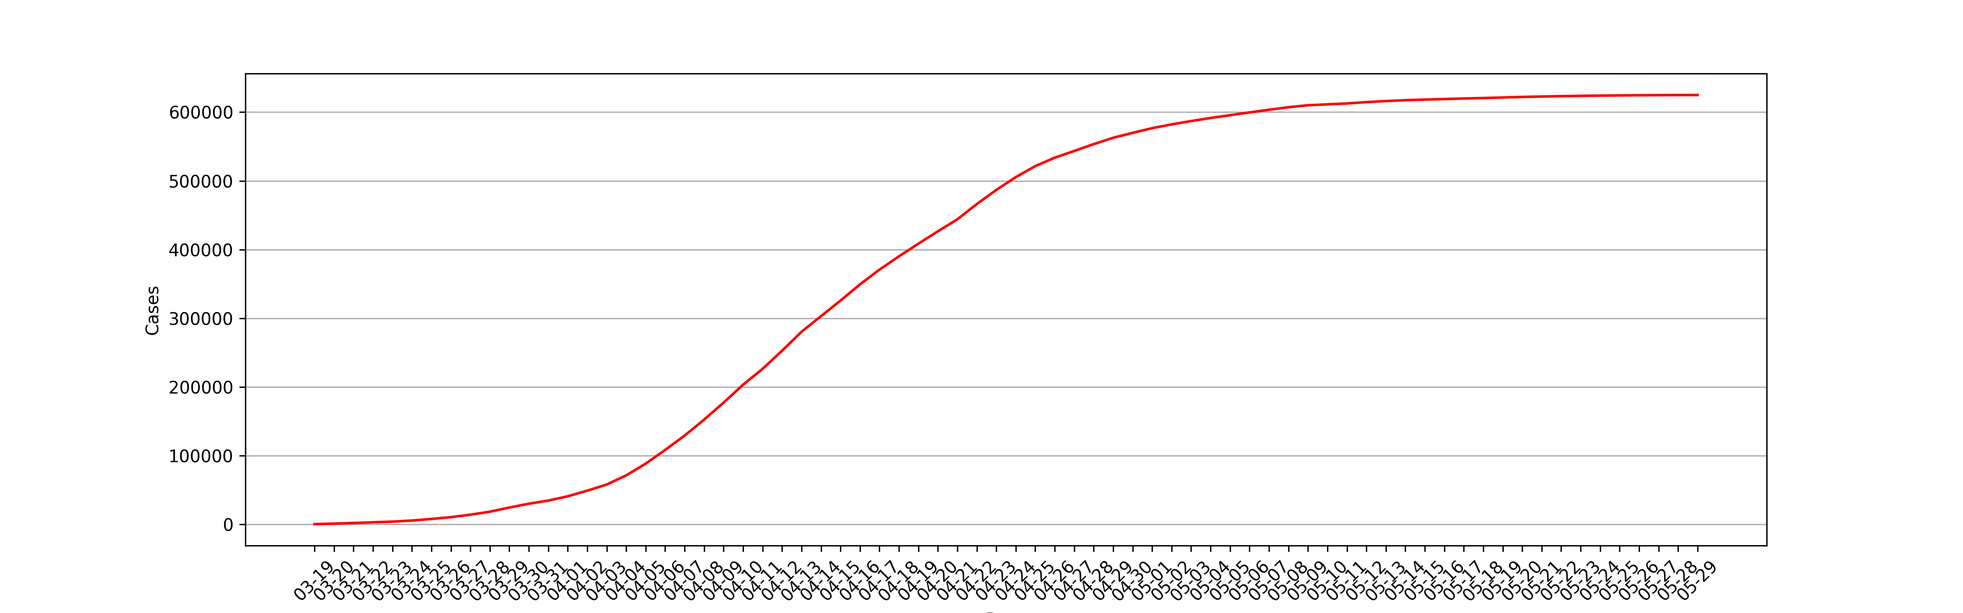
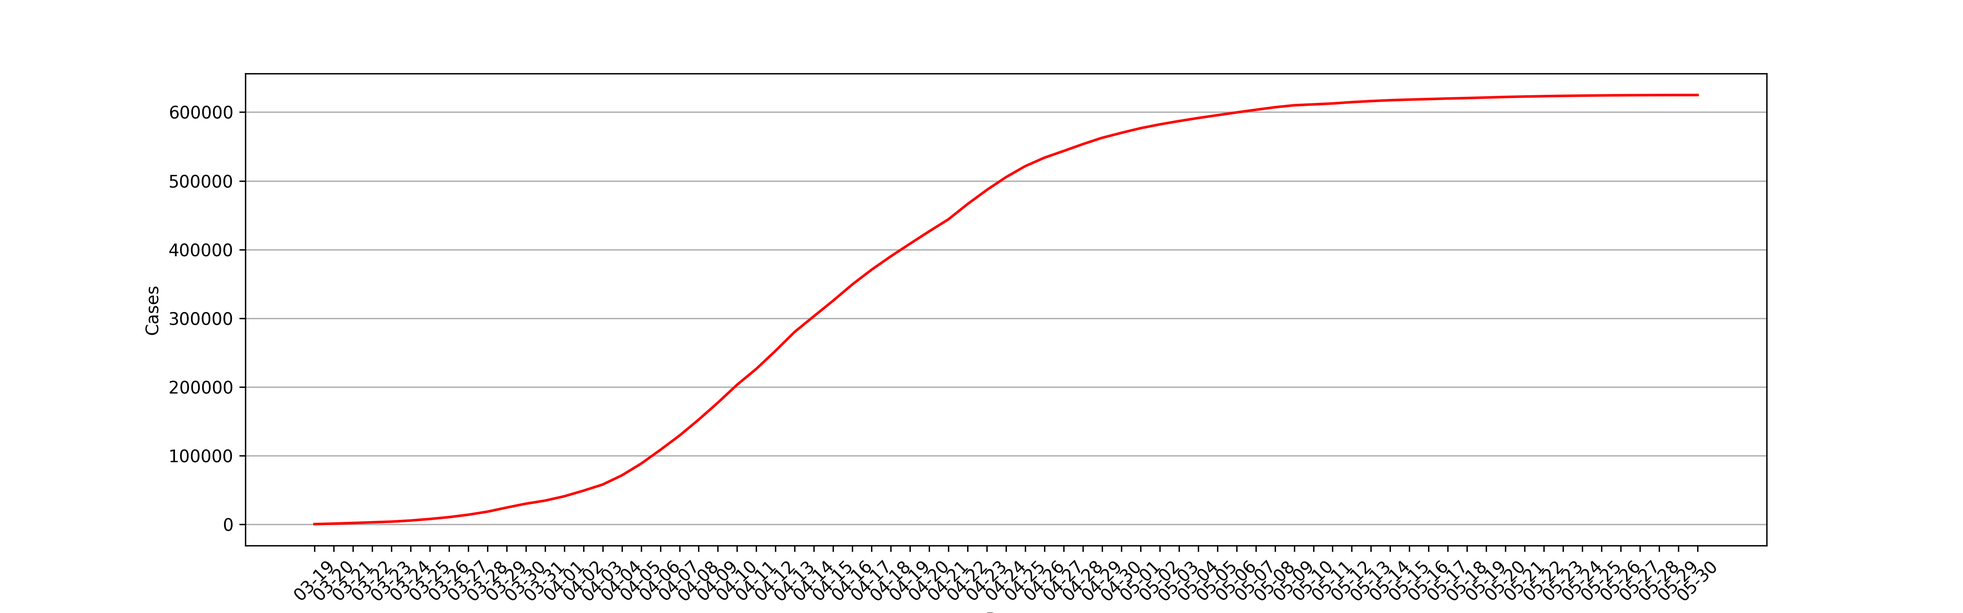
Commit by github action

diff --git a/archived_html/7ebf5a1aae9486f6f9ec58001a711f08.html b/archived_html/7ebf5a1aae9486f6f9ec58001a711f08.html
@@ -1,0 +1,151 @@
+<!DOCTYPE html>
+<html lang="zh-Hans">
+<head>
+    <meta charset="utf-8">
+    <meta http-equiv="Content-Security-Policy" content="upgrade-insecure-requests">
+    <meta name="viewport" content="width=device-width, initial-scale=1, maximum-scale=1, user-scalable=no">
+    <meta http-equiv="X-UA-Compatible" content="IE=Edge,chrome=1">
+    <meta http-equiv="Cache-Control" content="no-siteapp" />
+    <meta name="renderer" content="webkit">
+    <meta name="apple-mobile-web-app-capable" content="yes" />
+    <meta name="apple-mobile-web-app-status-bar-style" content="black" />
+    <title>上海2022年5月30日，新增本土新冠肺炎确诊病例9例 新增本土无症状感染者22例 新增境外输入性新冠肺炎确诊病例4例 新增境外输入性无症状感染者5例__上海市卫生健康委员会</title>
+    <meta name="ColumnDescription" content="新闻发布"><!-- * -->
+    <meta name="ColumnKeywords" content="新闻发布"><!-- * -->
+    <!--<meta name="ColumnType" content=""> * -->
+    <meta name="ColumnName" content="新闻发布"><!-- * -->
+    <meta name="ArticleTitle" content="上海2022年5月30日，新增本土新冠肺炎确诊病例9例 新增本土无症状感染者22例 新增境外输入性新冠肺炎确诊病例4例 新增境外输入性无症状感染者5例"><!-- * -->
+    <meta name="PubDate" content="2022-05-31"><!-- * -->
+    <meta name="ContentSource" content="上海市卫生健康委员会"><!-- * -->
+    <meta name="Author" content="上海市卫生健康委员会">
+    <meta name="Description" content="" />
+    <meta name="applicable-device" content="pc;mobile">
+    <meta name="location" content="北纬N31°11′51.89″ 东经E121°30′5.42″">
+    <!-- min CSS -->
+    <link rel="stylesheet" href="/assets/css/ETUI/ETUI3.min.css">
+    <!-- Custom CSS -->
+    <link rel="stylesheet" href="/assets/plugin/owl/owl.carousel.css">
+    <link rel="stylesheet" href="/assets/css/style.css">
+    <link rel="stylesheet" href="/assets/css/responsive.css">
+    <link rel="stylesheet" href="/assets/css/ETUI/ETUI3.Utility.css">
+    <!-- icons -->
+    <link rel="shortcut icon" href="/assets/img/ico/favicon.png">
+    <!-- 无障碍工具条 -->
+   <!-- <link rel="stylesheet" href="http://www.shanghai.gov.cn/jhelper_V2.0/jhelper_tool_style.css">
+    <script src="http://www.shanghai.gov.cn/jhelper_V2.0/wsj/jhelper_config.js" charset="gb2312"></script>
+    <noscript>不能读取工具条配置</noscript>
+    <script src="http://www.shanghai.gov.cn/jhelper_V2.0/jhelper_2.0.js" charset="gb2312"></script>
+    <noscript>不能读取工具条</noscript> 
+     -->
+    <script type="text/javascript">
+        function onsubmmit(pageIndex){
+            $("#pageIndex").val(1);
+            $("#searchField").val("0");
+            $("#timeScope").val("0");
+            $("#cmsSearchId").val("0");
+            $("#searchForm").submit();
+        }
+        function onselsubmmit(){
+            $("#pageIndex").val(1);
+            $("#searchForm").submit();
+        }
+        function psubmmit(pageIndex){
+            $("#pageIndex").val(pageIndex);
+            $("#searchForm").submit();
+        }
+        // 栏目
+        function chsubmmit(searchChId){
+            $("#pageIndex").val(1);
+            $("#searchField").val("0");
+            $("#timeScope").val("0");
+            $("#cmsSearchId").val(searchChId);
+            $("#searchForm").submit();
+        }
+    </script> 
+    <!-- 无障碍工具条 -->
+</head>
+<body>
+    <div id="accessNull"></div>
+    <div id="container">
+        <div class="channelinfo hidden"></div>
+        <script src="/assets/js/header.js"></script>
+        <div class="main" id="main">
+            <script src="/assets/js/jiansuo.js"></script>
+            <div class="main-container margin-top-15">
+                <div class="container ">
+                    <div class="relitive">
+                        <ol class="breadcrumb">
+                           <span>您现在所在的位置：</span>
+                            <li><a href="/index.html">首页</a></li>
+                            <li class="active">新闻中心</li>
+                           
+                            <li class="active">新闻发布</li>
+                           
+                        </ol>
+                        <div class="date-se">
+                            <i class="iconfont">&#xe60b;</i> <span id="time"></span>
+                        </div>
+                    </div>
+
+                    <div class="Article">
+                        <h2 id="ivs_title" class="Article-title">上海2022年5月30日，新增本土新冠肺炎确诊病例9例 新增本土无症状感染者22例 新增境外输入性新冠肺炎确诊病例4例 新增境外输入性无症状感染者5例</br>
+                         <h2 class="Article-title">
+                            <small id="ivs_date" class="Article-time">( 2022-05-31)</small>
+                        </h2>
+                        <div id="ivs_player" style="text-align:center;"></div>
+                        <div id="ivs_content" class="Article_content">
+                           
+                                 <p style="font-size: medium;white-space: normal;margin-top: 10px;text-indent: 40px"><span style="font-size: 20px;font-family: 仿宋_GB2312">市卫健委今早（31日）通报：2022年5月30日0—24时，新增本土新冠肺炎确诊病例9例和无症状感染者22例，其中2例确诊病例为既往无症状感染者转归，7例确诊病例和22例无症状感染者在隔离管控中发现。新增境外输入性新冠肺炎确诊病例4例和无症状感染者5例，均在闭环管控中发现。</span></p><p style="font-size: medium;white-space: normal;margin-top: 10px;text-indent: 40px"><span style="font-size: 20px;font-family: 仿宋_GB2312">2022</span><span style="font-size: 20px;font-family: 仿宋_GB2312">年5月30日0—24时，新增本土新冠肺炎确诊病例9例，含2例由既往无症状感染者转为确诊病例。新增治愈出院189例。</span></p><p style="font-size: medium;white-space: normal;margin-top: 10px;text-indent: 40px"><strong><span style="font-size: 20px;font-family: 黑体">病例1—病例5</span></strong><span style="font-size: 20px;font-family: 仿宋_GB2312">，居住于浦东新区，</span><strong><span style="font-size: 20px;font-family: 黑体">病例6</span></strong><span style="font-size: 20px;font-family: 仿宋_GB2312">，居住于静安区，</span><strong><span style="font-size: 20px;font-family: 黑体">病例7</span></strong><span style="font-size: 20px;font-family: 仿宋_GB2312">，居住于闵行区，均为本市闭环隔离管控人员，其间新冠病毒核酸检测结果异常，经疾控中心复核结果为阳性。经市级专家会诊，综合流行病学史、临床症状、实验室检测和影像学检查结果等，诊断为确诊病例。</span></p><p style="font-size: medium;white-space: normal;margin-top: 10px;text-indent: 40px"><strong><span style="font-size: 20px;font-family: 黑体">病例8</span></strong><span style="font-size: 20px;font-family: 仿宋_GB2312">，居住于虹口区，</span><strong><span style="font-size: 20px;font-family: 黑体">病例9</span></strong><span style="font-size: 20px;font-family: 仿宋_GB2312">，居住于杨浦区，为此前报告的本土无症状感染者。经市级专家会诊，综合流行病学史、临床症状、实验室检测和影像学检查结果等，诊断为确诊病例。</span></p><p style="font-size: medium;white-space: normal;margin-top: 10px;text-indent: 40px"><span style="font-size: 20px;font-family: 仿宋_GB2312">2022</span><span style="font-size: 20px;font-family: 仿宋_GB2312">年5月30日0—24时，新增本土无症状感染者22例。</span></p><p style="font-size: medium;white-space: normal;text-indent: 40px"><strong><span style="font-size: 20px;font-family: 黑体">无症状感染者1</span></strong><span style="font-size: 20px;font-family: 仿宋_GB2312">，居住于浦东新区，</span><strong><span style="font-size: 20px;font-family: 黑体">无症状感染者2</span></strong><span style="font-size: 20px;font-family: 仿宋_GB2312">，居住于长宁区，</span><strong><span style="font-size: 20px;font-family: 黑体">无症状感染者3—无症状感染者7</span></strong><span style="font-size: 20px;font-family: 仿宋_GB2312">，居住于静安区，</span><strong><span style="font-size: 20px;font-family: 黑体">无症状感染者8—无症状感染者12</span></strong><span style="font-size: 20px;font-family: 仿宋_GB2312">，居住于虹口区，</span><strong><span style="font-size: 20px;font-family: 黑体">无症状感染者13—无症状感染者18</span></strong><span style="font-size: 20px;font-family: 仿宋_GB2312">，居住于杨浦区，</span><strong><span style="font-size: 20px;font-family: 黑体">无症状感染者19—无症状感染者21</span></strong><span style="font-size: 20px;font-family: 仿宋_GB2312">，居住于闵行区，无症状感染者22，居住于松江区，均为本市闭环隔离管控人员，其间新冠病毒核酸检测结果异常，经疾控中心复核结果为阳性，诊断为无症状感染者。</span></p><p style="font-size: medium;white-space: normal;text-indent: 40px"><span style="font-size: 20px;font-family: 仿宋_GB2312">2022</span><span style="font-size: 20px;font-family: 仿宋_GB2312">年5月30日0—24时，</span><span style="font-size: 20px;font-family: 仿宋_GB2312">通过口岸联防联控机制，报告4例境外输入性新冠肺炎确诊病例。</span></p><p style="font-size: medium;white-space: normal;text-indent: 40px"><strong><span style="font-size: 20px;font-family: 黑体">病例1、病例2</span></strong><span style="font-size: 20px;font-family: 仿宋_GB2312">均为中国籍，病例1在墨西哥工作，自墨西哥出发，病例2在纳米比亚工作，自纳米比亚出发，病例1、病例2经德国转机，乘坐同一航班，于2022年5月19日抵达上海浦东国际机场，入关后即被集中隔离观察，其间出现症状。综合流行病学史、临床症状、实验室检测和影像学检查结果等，诊断为确诊病例。</span></p><p style="font-size: medium;white-space: normal;text-indent: 40px"><strong><span style="font-size: 20px;font-family: 黑体">病例3</span></strong><span style="font-size: 20px;font-family: 仿宋_GB2312">为中国籍，在美国留学，自美国出发，于2022年5月22日抵达上海浦东国际机场，入关后即被集中隔离观察，其间出现症状。综合流行病学史、临床症状、实验室检测和影像学检查结果等，诊断为确诊病例。</span></p><p style="font-size: medium;white-space: normal;text-indent: 40px"><strong><span style="font-size: 20px;font-family: 黑体">病例4</span></strong><span style="font-size: 20px;font-family: 仿宋_GB2312">为中国籍，在英国留学，自英国出发，经荷兰转机，于2022年5月25日抵达上海浦东国际机场，入关后即被集中隔离观察，其间出现症状。综合流行病学史、临床症状、实验室检测和影像学检查结果等，诊断为确诊病例。</span></p><p style="font-size: medium;white-space: normal;text-indent: 40px"><span style="font-size: 20px;font-family: 仿宋_GB2312">4</span><span style="font-size: 20px;font-family: 仿宋_GB2312">例境外输入性确诊病例已转至定点医疗机构救治，同航班密切接触者此前均已落实集中隔离观察。</span></p><p style="font-size: medium;white-space: normal;text-indent: 40px"><span style="font-size: 20px;font-family: 仿宋_GB2312">2022</span><span style="font-size: 20px;font-family: 仿宋_GB2312">年5月30日0—24时，新增境外输入性无症状感染者5例。</span></p><p style="font-size: medium;white-space: normal;text-indent: 40px"><strong><span style="font-size: 20px;font-family: 黑体">无症状感染者1</span></strong><span style="font-size: 20px;font-family: 仿宋_GB2312">为中国籍，在墨西哥工作，自墨西哥出发，经德国转机，于2022年5月19日抵达上海浦东国际机场，入关后即被集中隔离观察，其间例行核酸检测异常。经排查，区疾控中心新冠病毒核酸检测结果为阳性。综合流行病学史、临床症状、实验室检测和影像学检查结果等，诊断为无症状感染者。</span></p><p style="font-size: medium;white-space: normal;text-indent: 40px"><strong><span style="font-size: 20px;font-family: 黑体">无症状感染者2</span></strong><span style="font-size: 20px;font-family: 仿宋_GB2312">为中国籍，在美国留学，自美国出发，于2022年5月22日抵达上海浦东国际机场，入关后即被集中隔离观察，其间例行核酸检测异常。经排查，区疾控中心新冠病毒核酸检测结果为阳性。综合流行病学史、临床症状、实验室检测和影像学检查结果等，诊断为无症状感染者。</span></p><p style="font-size: medium;white-space: normal;text-indent: 40px"><strong><span style="font-size: 20px;font-family: 黑体">无症状感染者3</span></strong><span style="font-size: 20px;font-family: 仿宋_GB2312">为中国籍，在加拿大留学，自加拿大出发，于2022年5月27日抵达上海浦东国际机场，入关后即被集中隔离观察，其间例行核酸检测异常。经排查，区疾控中心新冠病毒核酸检测结果为阳性。综合流行病学史、临床症状、实验室检测和影像学检查结果等，诊断为无症状感染者。</span></p><p style="font-size: medium;white-space: normal;text-indent: 40px"><strong><span style="font-size: 20px;font-family: 黑体">无症状感染者4、无症状感染者5</span></strong><span style="font-size: 20px;font-family: 仿宋_GB2312">均为中国籍，在美国留学，自美国出发，乘坐同一航班，于2022年5月28日抵达上海浦东国际机场，入关后即被集中隔离观察，其间例行核酸检测异常。经排查，区疾控中心新冠病毒核酸检测结果为阳性。综合流行病学史、临床症状、实验室检测和影像学检查结果等，诊断为无症状感染者。</span></p><p style="font-size: medium;white-space: normal;text-indent: 40px"><span style="font-size: 20px;font-family: 仿宋_GB2312">5</span><span style="font-size: 20px;font-family: 仿宋_GB2312">例境外输入性无症状感染者已转至定点医疗机构医学观察，已追踪同航班密切接触者58人，均已落实集中隔离观察。</span></p><p style="font-size: medium;white-space: normal;text-indent: 40px"><span style="font-size: 20px;font-family: 仿宋_GB2312">2022</span><span style="font-size: 20px;font-family: 仿宋_GB2312">年5月30日0—24时，解除医学观察无症状感染者1735例，其中本土无症状感染者1733例，境外输入性无症状感染者2例。</span></p><p style="font-size: medium;white-space: normal;margin-top: 10px;text-indent: 40px;vertical-align: baseline"><span style="font-size: 20px;font-family: 仿宋_GB2312">2022</span><span style="font-size: 20px;font-family: 仿宋_GB2312">年2月26日0时至2022年5月30日24时，累计本土确诊57995例，治愈出院56098例，在院治疗1309例（其中重型86例，危重型28例），死亡588。现有待排查的疑似病例0例。</span></p><p style="font-size: medium;white-space: normal;margin-top: 10px;text-indent: 40px;vertical-align: baseline"><span style="font-size: 20px;font-family: 仿宋_GB2312">截至2022年5月30日24时，累计境外输入性确诊病例4614例，出院4603例，在院治疗11例。现有待排查的疑似病例0例。</span></p><p style="font-size: medium;white-space: normal;margin-top: 10px;text-indent: 40px;vertical-align: baseline"><span style="font-size: 20px;font-family: 仿宋_GB2312">&nbsp;</span><span style="font-family: 仿宋_GB2312; font-size: 20px;">&nbsp;</span></p><table align="center" cellspacing="0" cellpadding="0" width="544"><tbody><tr style="height: 24px" class="firstRow"><td width="379" colspan="2" style="border-width: 1px; border-color: windowtext; padding: 0px 7px; border-style: solid;" height="24"><p style="text-align: center;vertical-align: baseline"><strong><span style="font-size: 19px;font-family: 仿宋_GB2312">区域</span></strong></p></td><td width="165" style="border-width: 1px; border-top-color: windowtext; border-right-color: windowtext; border-bottom-color: windowtext; border-style: solid; border-left-color: initial; padding: 0px 7px;" height="24"><p style="text-align: center;vertical-align: baseline"><strong><span style="font-size: 19px;font-family: 仿宋_GB2312">在院治疗确诊病例</span></strong></p></td></tr><tr style="height: 42px"><td width="213" rowspan="9" style="border-width: 1px; border-right-color: windowtext; border-bottom-color: windowtext; border-left-color: windowtext; border-style: solid; border-top-color: initial; padding: 0px 7px;" height="42"><p style="text-align: center;vertical-align: baseline"><span style="font-size: 19px;font-family: 仿宋_GB2312">境外输入人员</span></p><p style="text-align: center;vertical-align: baseline"><span style="font-size: 19px;font-family: 仿宋_GB2312">（按输入地分）</span></p></td><td width="165" valign="top" style="border-width: 1px; border-style: solid; border-top-color: initial; border-left-color: initial; border-bottom-color: windowtext; border-right-color: windowtext; padding: 0px 7px;" height="42"><p style="text-align: center;vertical-align: middle"><span style="font-size: 19px;font-family: 仿宋_GB2312">美国</span></p></td><td width="165" valign="top" style="border-width: 1px; border-style: solid; border-top-color: initial; border-left-color: initial; border-bottom-color: windowtext; border-right-color: windowtext; padding: 0px 7px;" height="42"><p style="text-align: center;vertical-align: middle"><span style="font-size: 19px;font-family: 仿宋_GB2312">3</span></p></td></tr><tr style="height: 42px"><td width="165" valign="top" style="border-width: 1px; border-style: solid; border-top-color: initial; border-left-color: initial; border-bottom-color: windowtext; border-right-color: windowtext; padding: 0px 7px;" height="42"><p style="text-align: center;vertical-align: middle"><span style="font-size: 19px;font-family: 仿宋_GB2312">墨西哥</span></p></td><td width="165" valign="top" style="border-width: 1px; border-style: solid; border-top-color: initial; border-left-color: initial; border-bottom-color: windowtext; border-right-color: windowtext; padding: 0px 7px;" height="42"><p style="text-align: center;vertical-align: middle"><span style="font-size: 19px;font-family: 仿宋_GB2312">1</span></p></td></tr><tr style="height: 42px"><td width="165" valign="top" style="border-width: 1px; border-style: solid; border-top-color: initial; border-left-color: initial; border-bottom-color: windowtext; border-right-color: windowtext; padding: 0px 7px;" height="42"><p style="text-align: center;vertical-align: middle"><span style="font-size: 19px;font-family: 仿宋_GB2312">英国</span></p></td><td width="165" valign="top" style="border-width: 1px; border-style: solid; border-top-color: initial; border-left-color: initial; border-bottom-color: windowtext; border-right-color: windowtext; padding: 0px 7px;" height="42"><p style="text-align: center;vertical-align: middle"><span style="font-size: 19px;font-family: 仿宋_GB2312">1</span></p></td></tr><tr style="height: 42px"><td width="165" valign="top" style="border-width: 1px; border-style: solid; border-top-color: initial; border-left-color: initial; border-bottom-color: windowtext; border-right-color: windowtext; padding: 0px 7px;" height="42"><p style="text-align: center;vertical-align: middle"><span style="font-size: 19px;font-family: 仿宋_GB2312">纳米比亚</span></p></td><td width="165" valign="top" style="border-width: 1px; border-style: solid; border-top-color: initial; border-left-color: initial; border-bottom-color: windowtext; border-right-color: windowtext; padding: 0px 7px;" height="42"><p style="text-align: center;vertical-align: middle"><span style="font-size: 19px;font-family: 仿宋_GB2312">1</span></p></td></tr><tr style="height: 42px"><td width="165" valign="top" style="border-width: 1px; border-style: solid; border-top-color: initial; border-left-color: initial; border-bottom-color: windowtext; border-right-color: windowtext; padding: 0px 7px;" height="42"><p style="text-align: center;vertical-align: middle"><span style="font-size: 19px;font-family: 仿宋_GB2312">加拿大</span></p></td><td width="165" valign="top" style="border-width: 1px; border-style: solid; border-top-color: initial; border-left-color: initial; border-bottom-color: windowtext; border-right-color: windowtext; padding: 0px 7px;" height="42"><p style="text-align: center;vertical-align: middle"><span style="font-size: 19px;font-family: 仿宋_GB2312">1</span></p></td></tr><tr style="height: 42px"><td width="165" valign="top" style="border-width: 1px; border-style: solid; border-top-color: initial; border-left-color: initial; border-bottom-color: windowtext; border-right-color: windowtext; padding: 0px 7px;" height="42"><p style="text-align: center;vertical-align: middle"><span style="font-size: 19px;font-family: 仿宋_GB2312">新加坡</span></p></td><td width="165" valign="top" style="border-width: 1px; border-style: solid; border-top-color: initial; border-left-color: initial; border-bottom-color: windowtext; border-right-color: windowtext; padding: 0px 7px;" height="42"><p style="text-align: center;vertical-align: middle"><span style="font-size: 19px;font-family: 仿宋_GB2312">1</span></p></td></tr><tr style="height: 42px"><td width="165" valign="top" style="border-width: 1px; border-style: solid; border-top-color: initial; border-left-color: initial; border-bottom-color: windowtext; border-right-color: windowtext; padding: 0px 7px;" height="42"><p style="text-align: center;vertical-align: middle"><span style="font-size: 19px;font-family: 仿宋_GB2312">刚果（金）</span></p></td><td width="165" valign="top" style="border-width: 1px; border-style: solid; border-top-color: initial; border-left-color: initial; border-bottom-color: windowtext; border-right-color: windowtext; padding: 0px 7px;" height="42"><p style="text-align: center;vertical-align: middle"><span style="font-size: 19px;font-family: 仿宋_GB2312">1</span></p></td></tr><tr style="height: 42px"><td width="165" valign="top" style="border-width: 1px; border-style: solid; border-top-color: initial; border-left-color: initial; border-bottom-color: windowtext; border-right-color: windowtext; padding: 0px 7px;" height="42"><p style="text-align: center;vertical-align: middle"><span style="font-size: 19px;font-family: 仿宋_GB2312">蒙古</span></p></td><td width="165" valign="top" style="border-width: 1px; border-style: solid; border-top-color: initial; border-left-color: initial; border-bottom-color: windowtext; border-right-color: windowtext; padding: 0px 7px;" height="42"><p style="text-align: center;vertical-align: middle"><span style="font-size: 19px;font-family: 仿宋_GB2312">1</span></p></td></tr><tr style="height: 42px"><td width="165" valign="top" style="border-width: 1px; border-style: solid; border-top-color: initial; border-left-color: initial; border-bottom-color: windowtext; border-right-color: windowtext; padding: 0px 7px;" height="42"><p style="text-align: center;vertical-align: middle"><span style="font-size: 19px;font-family: 仿宋_GB2312">台湾地区</span></p></td><td width="165" valign="top" style="border-width: 1px; border-style: solid; border-top-color: initial; border-left-color: initial; border-bottom-color: windowtext; border-right-color: windowtext; padding: 0px 7px;" height="42"><p style="text-align: center;vertical-align: middle"><span style="font-size: 19px;font-family: 仿宋_GB2312">1</span></p></td></tr><tr style="height: 33px"><td width="213" rowspan="16" style="border-width: 1px; border-right-color: windowtext; border-bottom-color: windowtext; border-left-color: windowtext; border-style: solid; border-top-color: initial; padding: 0px 7px;" height="33"><p style="text-indent: 19px;vertical-align: baseline"><span style="font-size: 19px;font-family: 仿宋_GB2312">本市居住或工作地</span></p></td><td width="165" style="border-width: 1px; border-style: solid; border-top-color: initial; border-left-color: initial; border-bottom-color: windowtext; border-right-color: windowtext; padding: 0px 7px;" height="33"><p style="text-align: center;vertical-align: middle"><span style="font-size: 19px;font-family: 仿宋_GB2312">浦东</span></p></td><td width="165" style="border-width: 1px; border-style: solid; border-top-color: initial; border-left-color: initial; border-bottom-color: windowtext; border-right-color: windowtext; padding: 0px 7px;" height="33"><p style="text-align: center"><span style="font-size: 19px;font-family: 仿宋_GB2312">72</span></p></td></tr><tr style="height: 33px"><td width="165" style="border-width: 1px; border-style: solid; border-top-color: initial; border-left-color: initial; border-bottom-color: windowtext; border-right-color: windowtext; padding: 0px 7px;" height="33"><p style="text-align: center;vertical-align: middle"><span style="font-size: 19px;font-family: 仿宋_GB2312">黄浦</span></p></td><td width="165" style="border-width: 1px; border-style: solid; border-top-color: initial; border-left-color: initial; border-bottom-color: windowtext; border-right-color: windowtext; padding: 0px 7px;" height="33"><p style="text-align: center"><span style="font-size: 19px;font-family: 仿宋_GB2312">170</span></p></td></tr><tr style="height: 33px"><td width="165" style="border-width: 1px; border-style: solid; border-top-color: initial; border-left-color: initial; border-bottom-color: windowtext; border-right-color: windowtext; padding: 0px 7px;" height="33"><p style="text-align: center;vertical-align: middle"><span style="font-size: 19px;font-family: 仿宋_GB2312">徐汇</span></p></td><td width="165" style="border-width: 1px; border-style: solid; border-top-color: initial; border-left-color: initial; border-bottom-color: windowtext; border-right-color: windowtext; padding: 0px 7px;" height="33"><p style="text-align: center"><span style="font-size: 19px;font-family: 仿宋_GB2312">181</span></p></td></tr><tr style="height: 33px"><td width="165" style="border-width: 1px; border-style: solid; border-top-color: initial; border-left-color: initial; border-bottom-color: windowtext; border-right-color: windowtext; padding: 0px 7px;" height="33"><p style="text-align: center;vertical-align: middle"><span style="font-size: 19px;font-family: 仿宋_GB2312">长宁</span></p></td><td width="165" style="border-width: 1px; border-style: solid; border-top-color: initial; border-left-color: initial; border-bottom-color: windowtext; border-right-color: windowtext; padding: 0px 7px;" height="33"><p style="text-align: center"><span style="font-size: 19px;font-family: 仿宋_GB2312">78</span></p></td></tr><tr style="height: 33px"><td width="165" style="border-width: 1px; border-style: solid; border-top-color: initial; border-left-color: initial; border-bottom-color: windowtext; border-right-color: windowtext; padding: 0px 7px;" height="33"><p style="text-align: center;vertical-align: middle"><span style="font-size: 19px;font-family: 仿宋_GB2312">静安</span></p></td><td width="165" style="border-width: 1px; border-style: solid; border-top-color: initial; border-left-color: initial; border-bottom-color: windowtext; border-right-color: windowtext; padding: 0px 7px;" height="33"><p style="text-align: center"><span style="font-size: 19px;font-family: 仿宋_GB2312">208</span></p></td></tr><tr style="height: 33px"><td width="165" style="border-width: 1px; border-style: solid; border-top-color: initial; border-left-color: initial; border-bottom-color: windowtext; border-right-color: windowtext; padding: 0px 7px;" height="33"><p style="text-align: center;vertical-align: middle"><span style="font-size: 19px;font-family: 仿宋_GB2312">普陀</span></p></td><td width="165" style="border-width: 1px; border-style: solid; border-top-color: initial; border-left-color: initial; border-bottom-color: windowtext; border-right-color: windowtext; padding: 0px 7px;" height="33"><p style="text-align: center"><span style="font-size: 19px;font-family: 仿宋_GB2312">72</span></p></td></tr><tr style="height: 33px"><td width="165" style="border-width: 1px; border-style: solid; border-top-color: initial; border-left-color: initial; border-bottom-color: windowtext; border-right-color: windowtext; padding: 0px 7px;" height="33"><p style="text-align: center;vertical-align: middle"><span style="font-size: 19px;font-family: 仿宋_GB2312">虹口</span></p></td><td width="165" style="border-width: 1px; border-style: solid; border-top-color: initial; border-left-color: initial; border-bottom-color: windowtext; border-right-color: windowtext; padding: 0px 7px;" height="33"><p style="text-align: center"><span style="font-size: 19px;font-family: 仿宋_GB2312">202</span></p></td></tr><tr style="height: 33px"><td width="165" style="border-width: 1px; border-style: solid; border-top-color: initial; border-left-color: initial; border-bottom-color: windowtext; border-right-color: windowtext; padding: 0px 7px;" height="33"><p style="text-align: center;vertical-align: middle"><span style="font-size: 19px;font-family: 仿宋_GB2312">杨浦</span></p></td><td width="165" style="border-width: 1px; border-style: solid; border-top-color: initial; border-left-color: initial; border-bottom-color: windowtext; border-right-color: windowtext; padding: 0px 7px;" height="33"><p style="text-align: center"><span style="font-size: 19px;font-family: 仿宋_GB2312">277</span></p></td></tr><tr style="height: 33px"><td width="165" style="border-width: 1px; border-style: solid; border-top-color: initial; border-left-color: initial; border-bottom-color: windowtext; border-right-color: windowtext; padding: 0px 7px;" height="33"><p style="text-align: center;vertical-align: middle"><span style="font-size: 19px;font-family: 仿宋_GB2312">闵行</span></p></td><td width="165" style="border-width: 1px; border-style: solid; border-top-color: initial; border-left-color: initial; border-bottom-color: windowtext; border-right-color: windowtext; padding: 0px 7px;" height="33"><p style="text-align: center"><span style="font-size: 19px;font-family: 仿宋_GB2312">14</span></p></td></tr><tr style="height: 33px"><td width="165" style="border-width: 1px; border-style: solid; border-top-color: initial; border-left-color: initial; border-bottom-color: windowtext; border-right-color: windowtext; padding: 0px 7px;" height="33"><p style="text-align: center;vertical-align: middle"><span style="font-size: 19px;font-family: 仿宋_GB2312">宝山</span></p></td><td width="165" style="border-width: 1px; border-style: solid; border-top-color: initial; border-left-color: initial; border-bottom-color: windowtext; border-right-color: windowtext; padding: 0px 7px;" height="33"><p style="text-align: center"><span style="font-size: 19px;font-family: 仿宋_GB2312">20</span></p></td></tr><tr style="height: 33px"><td width="165" style="border-width: 1px; border-style: solid; border-top-color: initial; border-left-color: initial; border-bottom-color: windowtext; border-right-color: windowtext; padding: 0px 7px;" height="33"><p style="text-align: center;vertical-align: middle"><span style="font-size: 19px;font-family: 仿宋_GB2312">嘉定</span></p></td><td width="165" style="border-width: 1px; border-style: solid; border-top-color: initial; border-left-color: initial; border-bottom-color: windowtext; border-right-color: windowtext; padding: 0px 7px;" height="33"><p style="text-align: center"><span style="font-size: 19px;font-family: 仿宋_GB2312">3</span></p></td></tr><tr style="height: 33px"><td width="165" style="border-width: 1px; border-style: solid; border-top-color: initial; border-left-color: initial; border-bottom-color: windowtext; border-right-color: windowtext; padding: 0px 7px;" height="33"><p style="text-align: center;vertical-align: middle"><span style="font-size: 19px;font-family: 仿宋_GB2312">金山</span></p></td><td width="165" style="border-width: 1px; border-style: solid; border-top-color: initial; border-left-color: initial; border-bottom-color: windowtext; border-right-color: windowtext; padding: 0px 7px;" height="33"><p style="text-align: center"><span style="font-size: 19px;font-family: 仿宋_GB2312">1</span></p></td></tr><tr style="height: 33px"><td width="165" style="border-width: 1px; border-style: solid; border-top-color: initial; border-left-color: initial; border-bottom-color: windowtext; border-right-color: windowtext; padding: 0px 7px;" height="33"><p style="text-align: center;vertical-align: middle"><span style="font-size: 19px;font-family: 仿宋_GB2312">松江</span></p></td><td width="165" style="border-width: 1px; border-style: solid; border-top-color: initial; border-left-color: initial; border-bottom-color: windowtext; border-right-color: windowtext; padding: 0px 7px;" height="33"><p style="text-align: center"><span style="font-size: 19px;font-family: 仿宋_GB2312">7</span></p></td></tr><tr style="height: 33px"><td width="165" style="border-width: 1px; border-style: solid; border-top-color: initial; border-left-color: initial; border-bottom-color: windowtext; border-right-color: windowtext; padding: 0px 7px;" height="33"><p style="text-align: center;vertical-align: middle"><span style="font-size: 19px;font-family: 仿宋_GB2312">青浦</span></p></td><td width="165" style="border-width: 1px; border-style: solid; border-top-color: initial; border-left-color: initial; border-bottom-color: windowtext; border-right-color: windowtext; padding: 0px 7px;" height="33"><p style="text-align: center"><span style="font-size: 19px;font-family: 仿宋_GB2312">1</span></p></td></tr><tr style="height: 33px"><td width="165" style="border-width: 1px; border-style: solid; border-top-color: initial; border-left-color: initial; border-bottom-color: windowtext; border-right-color: windowtext; padding: 0px 7px;" height="33"><p style="text-align: center;vertical-align: middle"><span style="font-size: 19px;font-family: 仿宋_GB2312">奉贤</span></p></td><td width="165" style="border-width: 1px; border-style: solid; border-top-color: initial; border-left-color: initial; border-bottom-color: windowtext; border-right-color: windowtext; padding: 0px 7px;" height="33"><p style="text-align: center"><span style="font-size: 19px;font-family: 仿宋_GB2312">2</span></p></td></tr><tr style="height: 33px"><td width="165" style="border-width: 1px; border-style: solid; border-top-color: initial; border-left-color: initial; border-bottom-color: windowtext; border-right-color: windowtext; padding: 0px 7px;" height="33"><p style="text-align: center;vertical-align: middle"><span style="font-size: 19px;font-family: 仿宋_GB2312">崇明</span></p></td><td width="165" style="border-width: 1px; border-style: solid; border-top-color: initial; border-left-color: initial; border-bottom-color: windowtext; border-right-color: windowtext; padding: 0px 7px;" height="33"><p style="text-align: center"><span style="font-size: 19px;font-family: 仿宋_GB2312">1</span></p></td></tr><tr style="height: 33px"><td width="379" colspan="2" style="border-width: 1px; border-right-color: windowtext; border-bottom-color: windowtext; border-left-color: windowtext; border-style: solid; border-top-color: initial; padding: 0px 7px;" height="33"><p style="text-align: center;vertical-align: baseline"><span style="font-size: 19px;font-family: 仿宋_GB2312">合计</span></p></td><td width="165" style="border-width: 1px; border-style: solid; border-top-color: initial; border-left-color: initial; border-bottom-color: windowtext; border-right-color: windowtext; padding: 0px 7px;" height="33"><p style="text-align: center;vertical-align: baseline"><span style="font-size: 19px;font-family: 仿宋_GB2312">1320</span></p></td></tr></tbody></table><p style="font-size: medium;white-space: normal;margin-top: 10px;text-indent: 43px;vertical-align: baseline"><span style="font-size: 21px;font-family: Calibri, sans-serif">&nbsp;</span></p><p style="font-size: medium;white-space: normal;margin-top: 10px;text-indent: 43px;vertical-align: baseline"><span style="font-size: 21px;font-family: Calibri, sans-serif">&nbsp;</span></p><p><br/></p>
+                        </div>
+                        </div>
+                    </div>
+                </div>
+            </div>
+        </div>
+        <script src="/assets/js/footer.js"></script>
+        </div>
+    <!--Main JS-->
+    <script src="/assets/js/ETUI/jquery.min.1.12.4.js"></script>
+    <!--[if lt IE 9]>
+    <script src="/assets/js/ETUI/html5shiv.min.js"></script>
+    <script src="/assets/js/ETUI/respond.min.js"></script>
+    <![endif]-->
+    <script src="/assets/js/ETUI/ETUI3.min.js"></script>
+    <script src="/assets/plugin/owl/owl.carousel.min.js"></script>
+    <!--Custom JS-->
+    <script src="/assets/js/main.js"></script>
+    <script src="/assets/js/language.js"></script>
+    <!-- <script src="/assets/js/Time.js"></script> -->
+    <!--
+  <script src="/assets/js/jhelper_config.js" charset="gb2312"></script>
+<script type="text/javascript" src="https://jhelper.shanghai.gov.cn/publicJS/3100000010.js"></script>
+-->
+<script src="https://wsjkw.sh.gov.cn/wza/jhelper_config.js" charset="gb2312"></script>
+    <script type="text/javascript" src="http://jhelper.shanghai.gov.cn/publicJS/3100000010.js"></script>
+   <!-- <script type="text/javascript" src="http://voice.ewdcloud.com.cn:9292/js/ew_msc.js"></script>-->
+    <script>
+        jQuery(document).ready(function () {
+            Main.init();
+        });
+        jQuery(document).ready(function () {
+	        getToolbarMod();
+        });
+    </script>
+    <script>
+        function currentTime(){
+            var d = new Date(),str = '';
+            str += d.getFullYear()+'年';
+            str  += d.getMonth() + 1+'月';
+            str  += d.getDate()+'日';
+            var a = new Array("日", "一", "二", "三", "四", "五", "六");
+            var week = new Date().getDay();
+            var tody = "星期"+ a[week];
+            str +=' ';
+            str  += tody ;
+            return str;
+
+        }
+        setInterval(function(){$('#time').html(currentTime)},1000);
+    </script>
+</body>
+</html>

diff --git a/README.md b/README.md
@@ -35,6 +35,7 @@ git clone --depeth=1 https://github.com/lewangdev/shanghai-lockdown-covid-19.git
 
 | Date/Details | New Cases(*)  | Deaths | Confirmed Cases | Asymptomatic Cases | A2C Cases(*) |
 | ---- | ---------- | ---------- | ---------------- | ----------------- | ---------------------------- |
+| 2022-05-30 | 29 | 0 | 9 | 22 | 2 |
 | 2022-05-29 | 65 | 0 | 6 | 61 | 2 |
 | 2022-05-28 | 104 | 0 | 29 | 93 | 18 |
 | 2022-05-27 | 152 | 0 | 39 | 131 | 18 |
@@ -117,6 +118,7 @@ git clone --depeth=1 https://github.com/lewangdev/shanghai-lockdown-covid-19.git
 
 | Date | Total Cases  | Total Deaths | Case‑Fatality-Rate |
 | ---- | ---------- | ---------- | ---------- |
+| 2022-05-30 | 624949 | 588 | 0.0941% |
 | 2022-05-29 | 624920 | 588 | 0.0941% |
 | 2022-05-28 | 624855 | 588 | 0.0941% |
 | 2022-05-27 | 624751 | 588 | 0.0941% |
